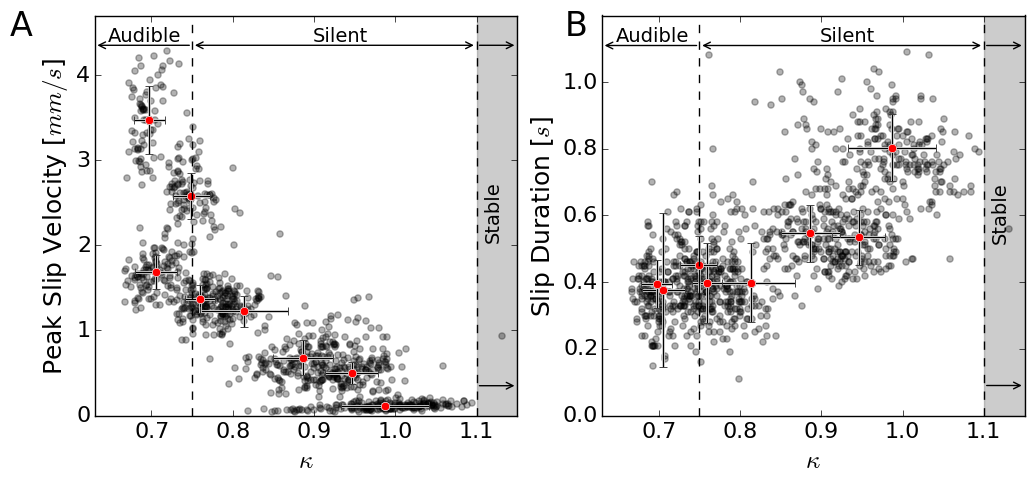
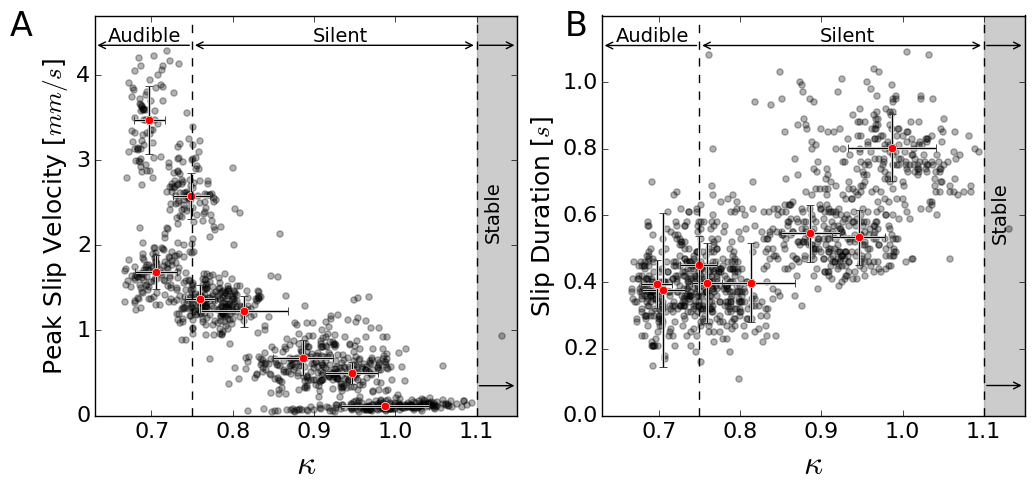
Increase kappa size

diff --git a/Figures/Fig_Event_Summary/make_final_plot.py b/Figures/Fig_Event_Summary/make_final_plot.py
@@ -63,7 +63,7 @@ ax2 = plt.subplot(122)
 
 # Panel A
 # Set labels and tick sizes
-ax1.set_xlabel(r'$\kappa$',fontsize=18)
+ax1.set_xlabel(r'$\kappa$',fontsize=24)
 ax1.set_ylabel(r'Peak Slip Velocity [$mm/s$]',fontsize=18)
 ax1.tick_params(axis='both', which='major', labelsize=16)
 
@@ -135,7 +135,7 @@ ax1.set_xlim(0.63,1.15)
 # Panel B
 
 # Set labels and tick sizes
-ax2.set_xlabel(r'$\kappa$',fontsize=18)
+ax2.set_xlabel(r'$\kappa$',fontsize=24)
 ax2.set_ylabel(r'Slip Duration [$s$]',fontsize=18)
 ax2.tick_params(axis='both', which='major', labelsize=16)
 
